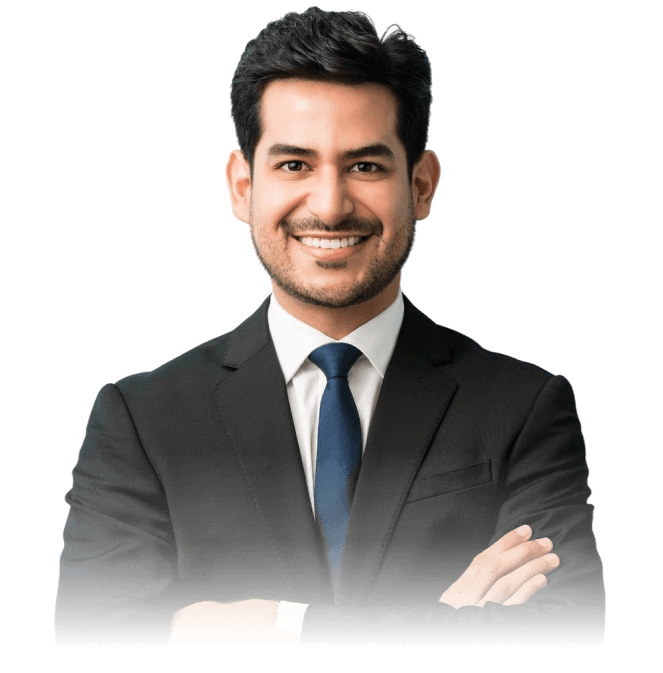
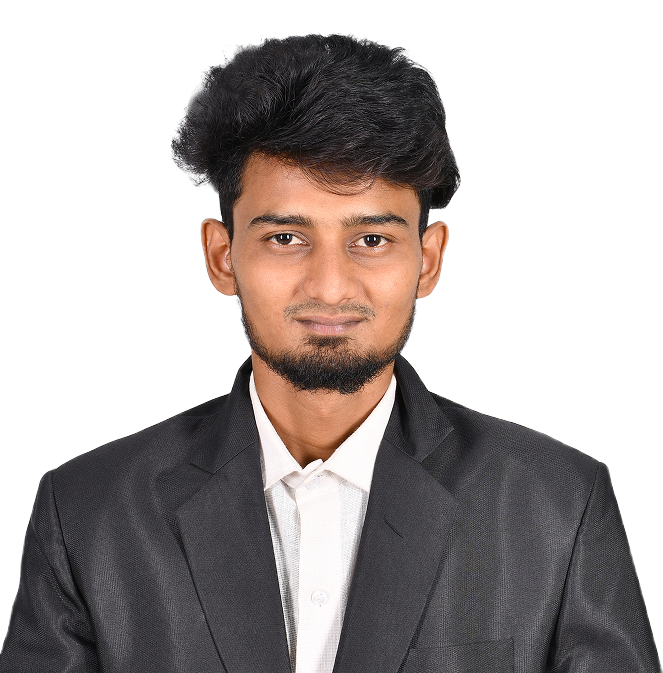
Initial portfolio upload

diff --git a/index.html b/index.html
@@ -60,7 +60,7 @@
                                     <a href="https://www.linkedin.com/in/santhosh-kumar-m-326bb8289?utm_source=share&utm_campaign=share_via&utm_content=profile&utm_medium=android_app" target="_blank"><i class="fa-brands fa-linkedin-in"></i></a>
                                     <a href="https://www.behance.net/santhoshkumar434" target="_blank"><i class="fa-brands fa-behance"></i></a>
                                     <a href="https://www.instagram.com/itz_santhoosh?igsh=djExMjJlaWZ0Nm00" target="_blank"><i class="fa-brands fa-instagram"></i></a>
-                                    <a href="#" target="_blank"><i class="fa-brands fa-facebook-f"></i></a>
+                                    <!-- <a href="#" target="_blank"><i class="fa-brands fa-facebook-f"></i></a> -->
                                 </div>
                             </div>
 
@@ -307,7 +307,7 @@
                             <div class="about-us-left-content-wrap paralax-image">
                                 <div
                                     class="about-thumbnail-large-style-two about-us-card tmponhover single-animation active">
-                                    <img src="assets/images/about/01.webp" alt="about">
+                                    <img src="assets/images/about/aboutme-image.png" alt="about">
                                     <div class="tmp-light light-center"></div>
                                 </div>
                             </div>
